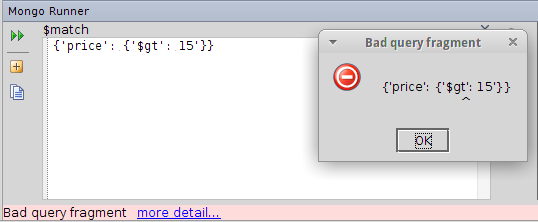
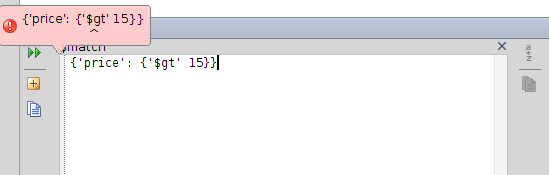
fix error balloon

diff --git a/src/main/java/org/codinjutsu/tools/mongo/view/MongoRunnerPanel.java b/src/main/java/org/codinjutsu/tools/mongo/view/MongoRunnerPanel.java
@@ -18,12 +18,14 @@ package org.codinjutsu.tools.mongo.view;
 
 import com.intellij.openapi.project.Project;
 import com.intellij.openapi.ui.MessageType;
+import com.intellij.openapi.ui.Messages;
 import com.intellij.openapi.ui.Splitter;
 import com.intellij.openapi.ui.popup.Balloon;
-import com.intellij.openapi.ui.popup.BalloonBuilder;
 import com.intellij.openapi.ui.popup.JBPopupFactory;
 import com.intellij.ui.awt.RelativePoint;
+import com.intellij.ui.components.panels.NonOpaquePanel;
 import com.mongodb.util.JSONParseException;
+import org.apache.commons.lang.StringUtils;
 import org.codinjutsu.tools.mongo.MongoConfiguration;
 import org.codinjutsu.tools.mongo.logic.MongoManager;
 import org.codinjutsu.tools.mongo.model.MongoCollection;
@@ -117,8 +119,16 @@ public class MongoRunnerPanel extends JPanel {
 
         @Override
         public void notifyOnErrorForOperator(JComponent editorComponent, JSONParseException ex) {
-            BalloonBuilder balloonBuilder = JBPopupFactory.getInstance().createHtmlTextBalloonBuilder("<b>Bad JSON syntax:</b>" + ex.getMessage(), MessageType.ERROR, null);
-            Balloon balloon = balloonBuilder.createBalloon();
+            String message = StringUtils.removeStart(ex.getMessage(), "\n");
+            NonOpaquePanel nonOpaquePanel = new NonOpaquePanel();
+            JTextPane textPane = Messages.configureMessagePaneUi(new JTextPane(), message);
+            textPane.setBackground(MessageType.ERROR.getPopupBackground());
+            nonOpaquePanel.add(textPane, BorderLayout.CENTER);
+            nonOpaquePanel.add(new JLabel(MessageType.ERROR.getDefaultIcon()), BorderLayout.WEST);
+
+            Balloon balloon = JBPopupFactory.getInstance().createBalloonBuilder(nonOpaquePanel)
+                    .setFillColor(MessageType.ERROR.getPopupBackground())
+                    .createBalloon();
             balloon.show(new RelativePoint(editorComponent, new Point(0, 0)), Balloon.Position.above);
         }
     }

diff --git a/src/main/java/org/codinjutsu/tools/mongo/view/ErrorPanel.java b/src/main/java/org/codinjutsu/tools/mongo/view/ErrorPanel.java
@@ -18,8 +18,7 @@ package org.codinjutsu.tools.mongo.view;
 
 import com.intellij.openapi.ui.Messages;
 import com.intellij.ui.HoverHyperlinkLabel;
-import com.intellij.ui.components.panels.NonOpaquePanel;
-import com.mongodb.util.JSONParseException;
+import org.codinjutsu.tools.mongo.utils.GuiUtils;
 
 import javax.swing.*;
 import javax.swing.event.HyperlinkEvent;
@@ -28,11 +27,9 @@ import java.awt.*;
 
 public class ErrorPanel extends JPanel {
 
-    private static final Color ERROR_COLOR = new Color(255, 220, 220);
-
     ErrorPanel(final Exception ex) {
         setLayout(new BoxLayout(this, BoxLayout.X_AXIS));
-        setBackground(ERROR_COLOR);
+        setBackground(GuiUtils.ERROR_COLOR);
         add(new JLabel("Error during query execution"));
         final HoverHyperlinkLabel hoverHyperlinkLabel = new HoverHyperlinkLabel("more detail...");
         hoverHyperlinkLabel.addHyperlinkListener(new HyperlinkListener() {

diff --git a/src/main/java/org/codinjutsu/tools/mongo/utils/GuiUtils.java b/src/main/java/org/codinjutsu/tools/mongo/utils/GuiUtils.java
@@ -27,6 +27,7 @@ import java.net.URL;
 public class GuiUtils {
 
     private static final String ICON_FOLDER = "/icons/";
+    public static final Color ERROR_COLOR = new Color(255, 220, 220);
 
     public static Icon loadIcon(String iconFilename) {
         return IconLoader.findIcon(ICON_FOLDER + iconFilename);
